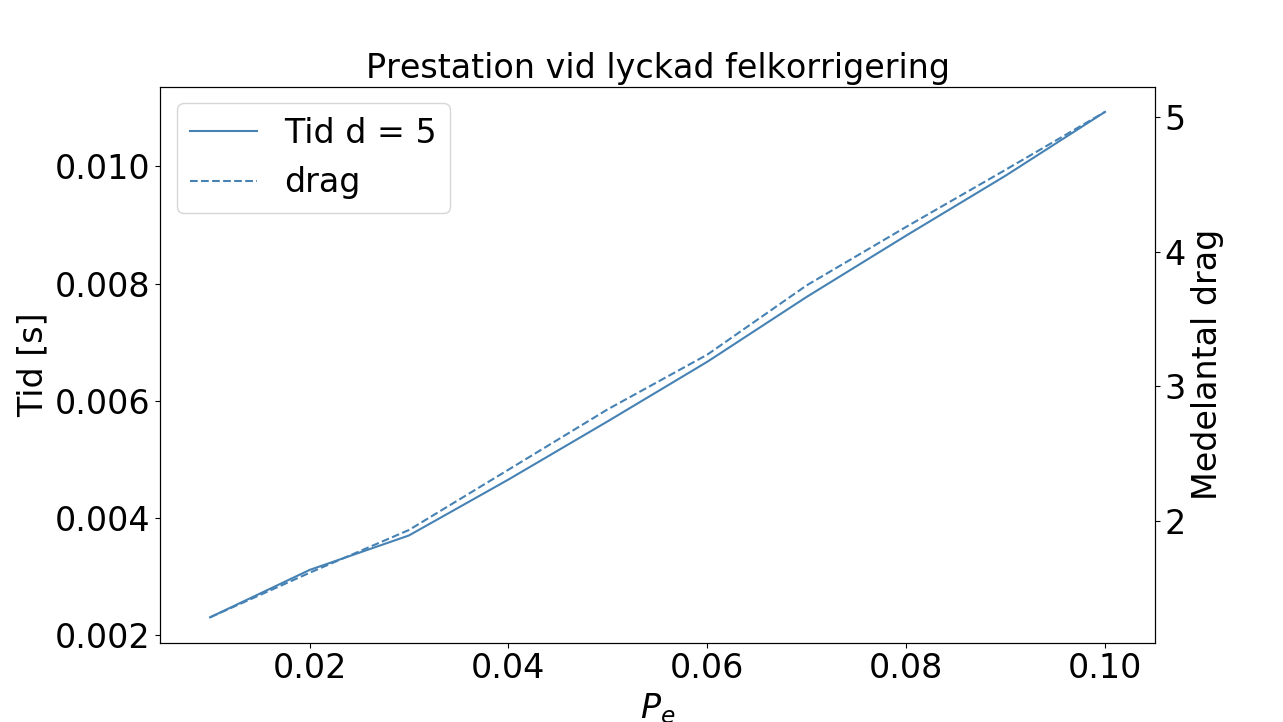
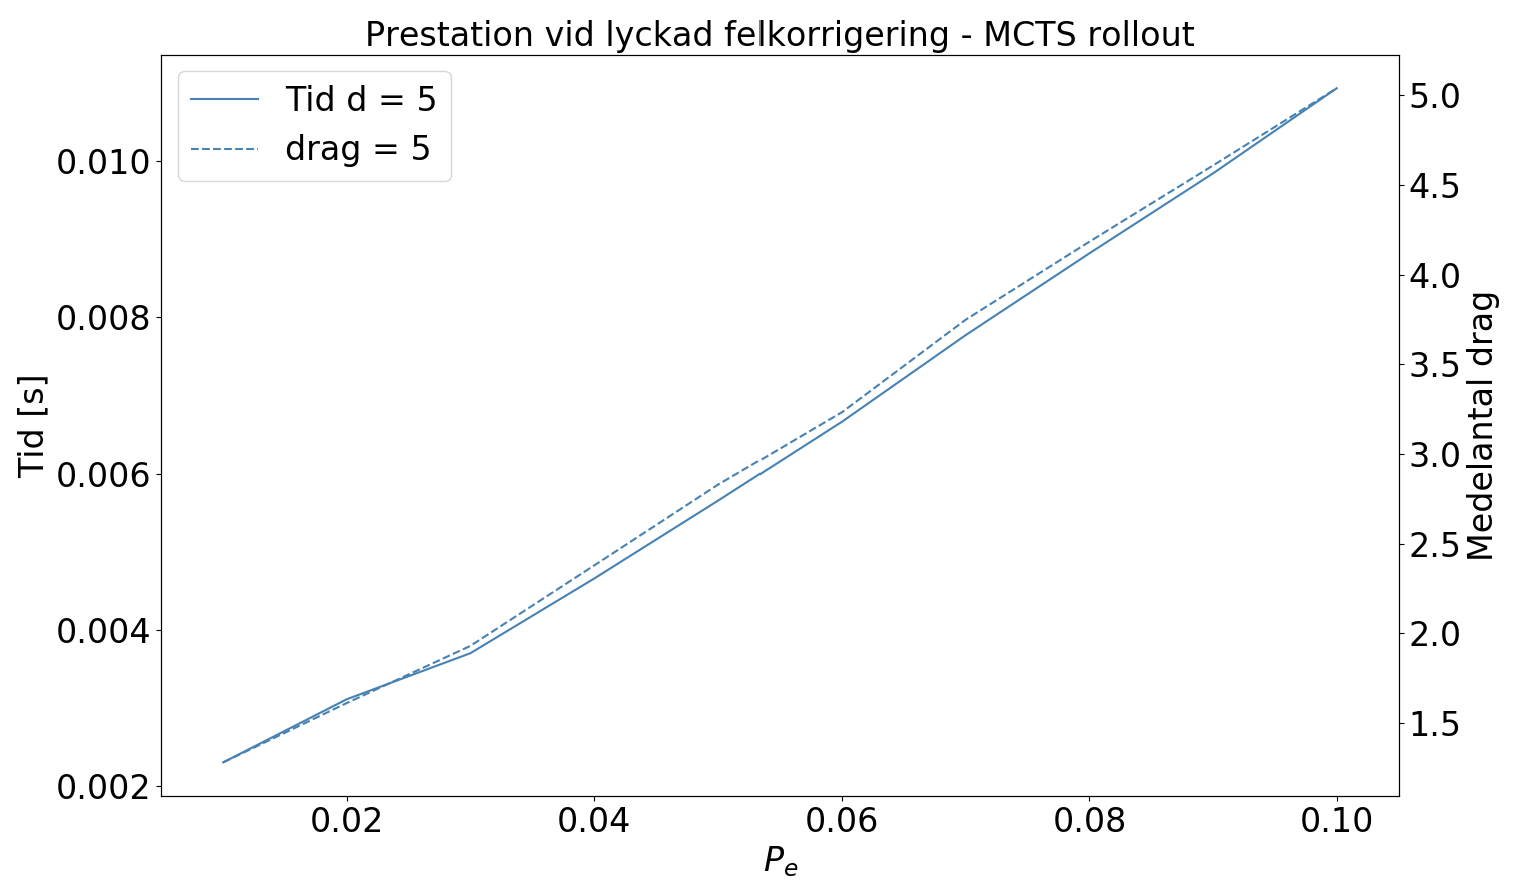
sdf

diff --git a/Test_time_for_agent.py b/Test_time_for_agent.py
@@ -92,26 +92,26 @@ def plot(PATH5,PATH9, PATH13, plot_range, system_size5, system_size9, system_siz
     ax1.set_ylabel('Tid [s]', fontsize=24)
     ax1.set_xlabel('$P_e$', fontsize=24)
     #ax1.scatter(P_error, time, label='d = '+str(system_size), color='steelblue', marker='o')
-    #lns11 = ax1.plot(P_error5,time5, color='steelblue', label='Tid d = '+str(system_size5))
-    lns12 = ax1.plot(P_error9,time9, color='orange', label='Tid d = '+str(system_size9))
-    lns13 = ax1.plot(P_error13,time13, color='saddlebrown', label='Tid d = '+str(system_size13))
+    lns11 = ax1.plot(P_error5,time5, color='steelblue', label='Tid d = '+str(system_size5))
+    #lns12 = ax1.plot(P_error9,time9, color='orange', label='Tid d = '+str(system_size9))
+    #lns13 = ax1.plot(P_error13,time13, color='saddlebrown', label='Tid d = '+str(system_size13))
 
     ax1.set_xlim(0.005,plot_range*0.01+0.005)
 
     ax2 = ax1.twinx()
     ax2.set_ylabel('Medelantal drag', fontsize=24)
-    #lns21 = ax2.plot(P_error5,avarage_nr_steps5, '--',color='steelblue', alpha = 1, label='drag')
-    lns22 = ax2.plot(P_error9,avarage_nr_steps9, '--', color='orange',alpha = 1, label='drag d = '+str(system_size9))
-    lns23 = ax2.plot(P_error13,avarage_nr_steps13, '--', color='saddlebrown', alpha = 1, label='drag d = '+str(system_size13))
+    lns21 = ax2.plot(P_error5,avarage_nr_steps5, '--',color='steelblue', alpha = 1, label='drag = '+str(system_size5))
+    #lns22 = ax2.plot(P_error9,avarage_nr_steps9, '--', color='orange',alpha = 1, label='drag d = '+str(system_size9))
+    #lns23 = ax2.plot(P_error13,avarage_nr_steps13, '--', color='saddlebrown', alpha = 1, label='drag d = '+str(system_size13))
 
     # added these three lines
-    lns = lns12+lns22+lns13+lns23
+    lns = lns11+lns21#lns12+lns22+lns13+lns23
     labs = [l.get_label() for l in lns]
     plt.legend(lns, labs, loc=0, fontsize = 24)
     ax1.xaxis.set_tick_params(labelsize=24)
     ax1.yaxis.set_tick_params(labelsize=24)
     ax2.yaxis.set_tick_params(labelsize=24)
-    plt.title('Prestation vid lyckad felkorrigering', fontsize=24)
+    plt.title('Prestation vid lyckad felkorrigering - MCTS rollout', fontsize=24)
     #plt.savefig('Results/Result_Time_plot'+'.png')
     plt.show()
 

diff --git a/Plot_and_get_result_low_P_e_MCTS.py b/Plot_and_get_result_low_P_e_MCTS.py
@@ -82,9 +82,9 @@ def get_data(PATH):
             
 
 def plot(PATH, plot_range, system_size):
-    PATH5 = PATH +'/Rollout_5'
+    PATH5 = PATH +'/MCTS_5'
     P_success5, P_error5 = get_data(PATH5)
-    PATH9 = PATH +'/Rollout_9'
+    PATH9 = PATH +'/MCTS_9'
     P_success9, P_error9 = get_data(PATH9)
 
 
@@ -106,7 +106,7 @@ def plot(PATH, plot_range, system_size):
 
     plt.tick_params(axis='both', labelsize=24)
     #fig.set_figwidth(10)
-    plt.savefig(PATH+'/Result_Rollout_plot'+'.png')
+    plt.savefig(PATH+'/Result_plot'+'.png')
     plt.show()
 
 

diff --git a/MCTS_VS_Agent_plot.py b/MCTS_VS_Agent_plot.py
@@ -38,7 +38,7 @@ def plot(system_size5, PATH5, PATH_MCTS, plot_range):
     ax.set_xlim(0.005,plot_range*0.01+0.005)
     plt.xlabel('$P_e$', fontsize=24)
     plt.ylabel('$P_s$', fontsize=24)
-    plt.title('Jämförelse MCTS med rollout och tränat nätverk för d = 5', fontsize=24)
+    plt.title('Jämförelse MCTS rollout och tränat nätverk för d = 5', fontsize=24)
     plt.tick_params(axis='both', labelsize=24)
     fig.set_figwidth(8)
     fig.set_figheight(5)

diff --git a/Plot_Result.py b/Plot_Result.py
@@ -46,7 +46,7 @@ def plot(system_size5, system_size7, system_size9, system_size11, system_size13,
     ax.set_xlim(0.005,plot_range*0.01+0.005)
     plt.xlabel('$P_e$', fontsize=24)
     plt.ylabel('$P_s$', fontsize=24)
-    plt.title('Prestanda för trändade agenter', fontsize=24)
+    plt.title('Prestanda för trändade agenter - MCTS rollout', fontsize=24)
     plt.tick_params(axis='both', labelsize=24)
     fig.set_figwidth(8)
     fig.set_figheight(5)
